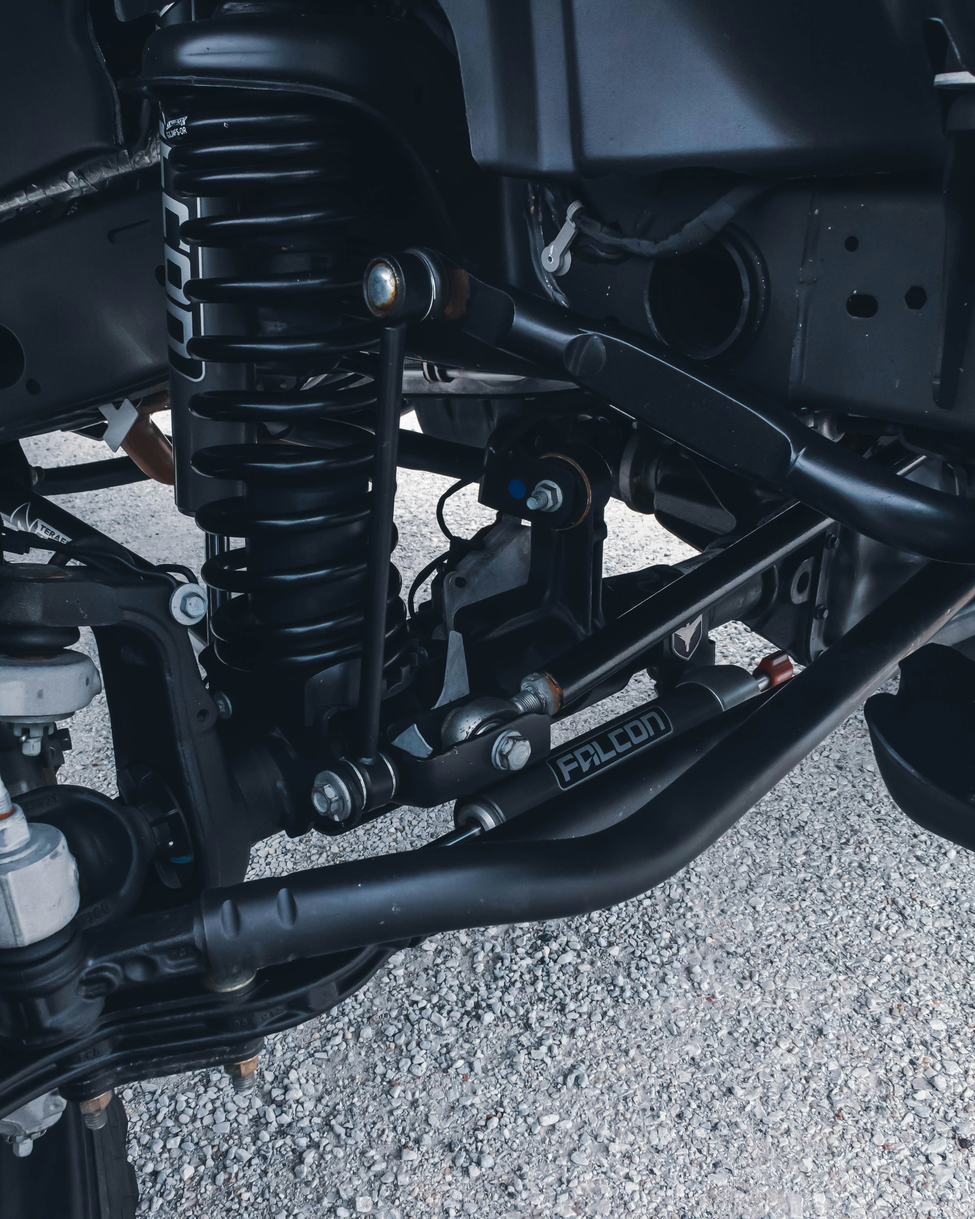
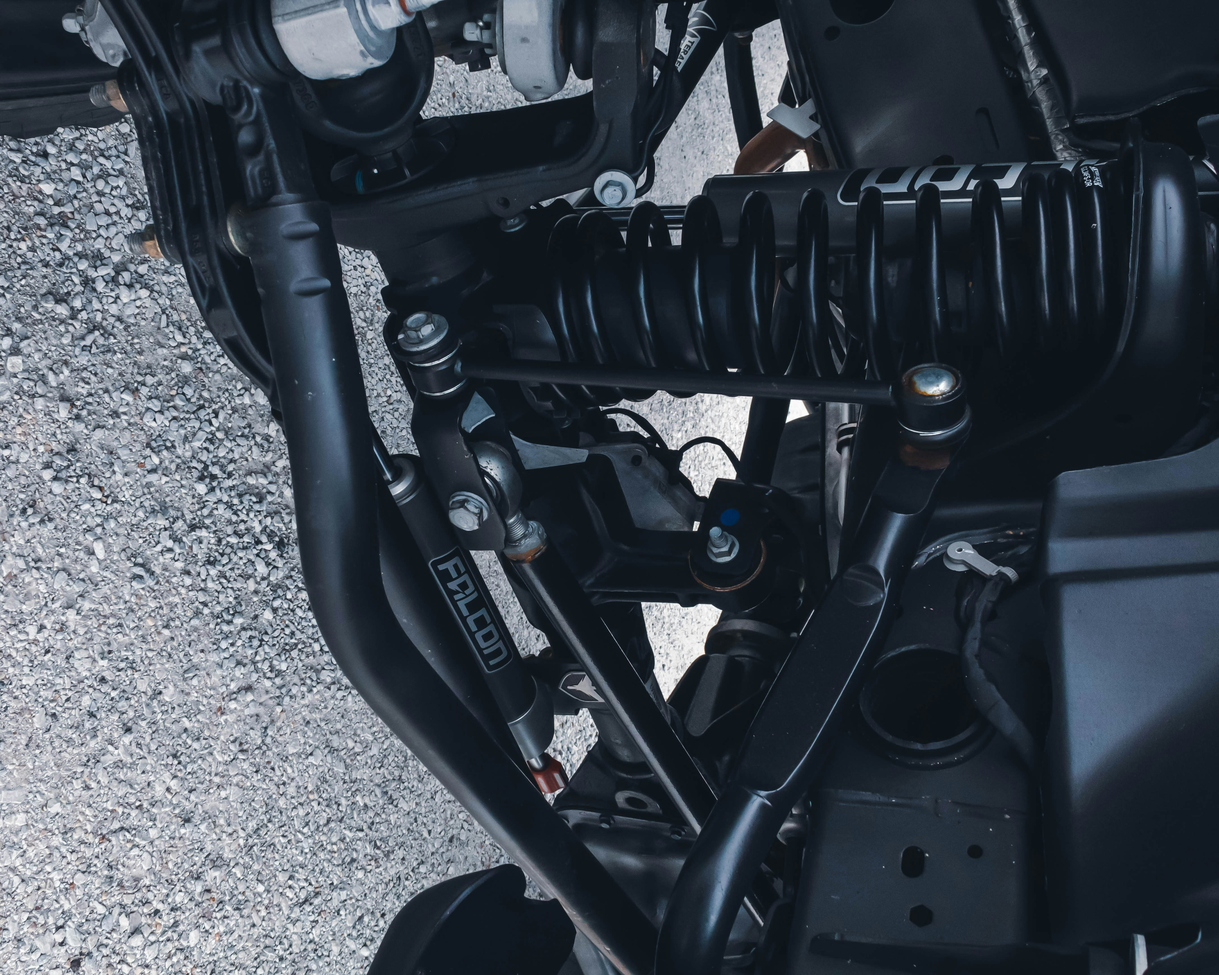
Development of responsive design for screens < 402px

diff --git a/responsive.css b/responsive.css
@@ -1,0 +1,215 @@
+/******************************** 
+    Extra Small Devices - 402px 
+*********************************/
+@media (max-width: 402px) {
+    body{
+        font-size: 12px;
+    }
+
+    .ctabar{
+        display: flex;
+        flex-direction: column;
+        align-items: center;
+        height: 100px;
+    }
+
+    .ctabar-item{
+        margin-bottom: 5px;
+    }
+
+    .ctabar-item a{
+        font-weight: 600;
+    }
+
+    .navbar{
+        display: flex;
+        flex-direction: row;
+        align-items: center;
+        justify-content:space-between;
+        padding: 0 20px;
+    }
+
+    .navlist{
+        display: none;
+    }
+
+    .humburger-container{
+        display: flex;
+    }
+
+    .humburger-container img{
+        width: 45px;
+        height: 45px;
+    }
+
+    .remove-menu{
+        display: none;
+    }
+
+    .logo{
+        width: 80px;
+        height: 80px;
+    }
+
+    .quote-btn{
+        height: 3em;
+        font-weight: 600;
+        border: 2px solid;
+    }
+
+    .hero-section{
+        height: 500px;
+    }
+
+    .hero-image{
+        height: 100%;
+    }
+
+    .hero-text{
+        top: 15%;
+        left: 0%;
+        padding: 0 20px;
+    }
+
+    .hero-text h1{
+        text-align: center;
+        font-size: 2.2rem;
+        margin-bottom: 15px;
+    }
+
+    .hero-text p{
+        margin-bottom: 40px;
+    }
+
+    .services{
+        padding: 60px 20px 100px 20px;
+    }
+
+    .services h3{
+        text-align: center;
+        width: 100%;
+        font-size: 2.2rem;
+        margin-bottom: 30px;
+    }
+
+    .services p{
+        width: 100%;
+        margin-bottom: 30px;
+    }
+
+    .services-container{
+        padding: 0 20px;
+    }
+
+    .service{
+        width: 100%;
+    }
+
+    .service-image img{
+        width: 100%;
+    }
+
+    .service-description{
+        align-items: center;
+    }
+
+    .service-description h4{
+        text-align: center;
+    }
+
+    .service-description p{
+        text-align: center;
+    }
+
+    .cta-container{
+        width: 100%;
+        display: flex;
+        flex-direction: column;
+        align-items: center;
+        padding: 60px 20px;
+    }
+
+    .cta-text{
+        width: 100%;
+        text-align: center;
+        align-items: center;
+    }
+
+    .cta-text h3{
+        font-size: 2.2em;
+        margin-bottom: 30px;
+    }
+
+    .cta-text p{
+        width: 80%;
+    }
+
+    .cta-btns{
+        width: 70%;
+    }
+
+    .cta-btns .btn{
+        width: auto;
+        height: auto;
+        border: 2px solid;
+        font-weight: 600;
+    }
+
+    .cta-btns .btn:nth-of-type(2){
+        border: 2px solid;
+    }
+
+    .cta-btns .btn:nth-of-type(2):hover{
+        border: none;
+    }
+
+    .cta-image{
+        width: 100%;
+        display: flex;
+        align-items: center;
+        justify-content: center;
+        margin-top: 30px;
+    }
+
+    .cta-image img{
+        width: 70%;
+        height: 70%;
+    }
+
+    .footer-container{
+        flex-direction: column;
+        align-items: center;
+    }
+
+    .footer-container h4{
+        font-size: 1.3em;
+    }
+
+    .contacts{
+        margin-bottom: 30px;
+    }
+
+    .quick-links, .contacts{
+        text-align: center;
+        width: 60%;
+        margin-top: 50px;
+    }
+
+    .contacts .contact{
+        margin: 0;
+        padding: 10px 0;
+    }
+
+    .footer-container .contacts h4{
+        margin-bottom: 20px;
+    }
+
+    .logo-poster{
+        margin-bottom: 30px;
+    }
+
+    .logo-poster img{
+        width: 130px;
+        height: 130px;
+    }
+}

diff --git a/index.html b/index.html
@@ -11,6 +11,9 @@
     <!-- sytle.css -->
      <link rel="stylesheet" href="style.css">
 
+     <!-- responsive.css -->
+      <link rel="stylesheet" href="responsive.css">
+
 </head>
 <body>
     <!-- Header section -->
@@ -42,6 +45,11 @@
             </ul>
 
             <button class="btn quote-btn" href="#">Get a Quote</button>
+
+            <div class="humburger-container">
+                <img src="images/icons/iconamoon_menu-burger-horizontal-bold.png" alt="menu" class="humburger-menu">
+                <img src="images/icons/iconoir_cancel.svg" alt="remove menu" class="remove-menu">
+            </div>
         </div>
         <div class="hero-section">
             <img class="hero-image" src="images/hero-image-1.jpg" alt="banner image">
@@ -125,7 +133,7 @@
                 </div>
             </div>
             <div class="cta-image">
-                <img src="" alt="car-avatar">
+                <img src="images/tire-and-track-illustration-png.png" alt="car-avatar">
             </div>
         </div>
     </section>

diff --git a/style.css b/style.css
@@ -90,6 +90,10 @@ body{
     border: 1px solid rgb(190, 170, 170);
 }
 
+.humburger-container{
+    display: none;
+}
+
 .hero-section{
     position: relative;
 }
